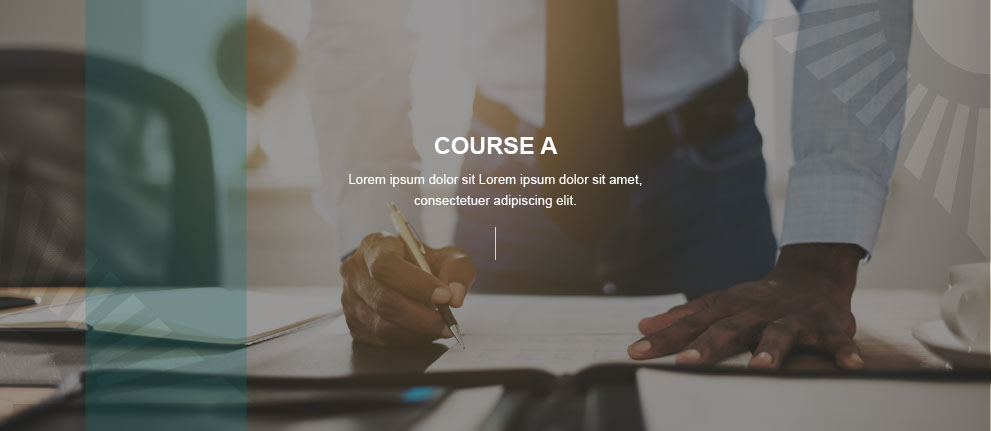
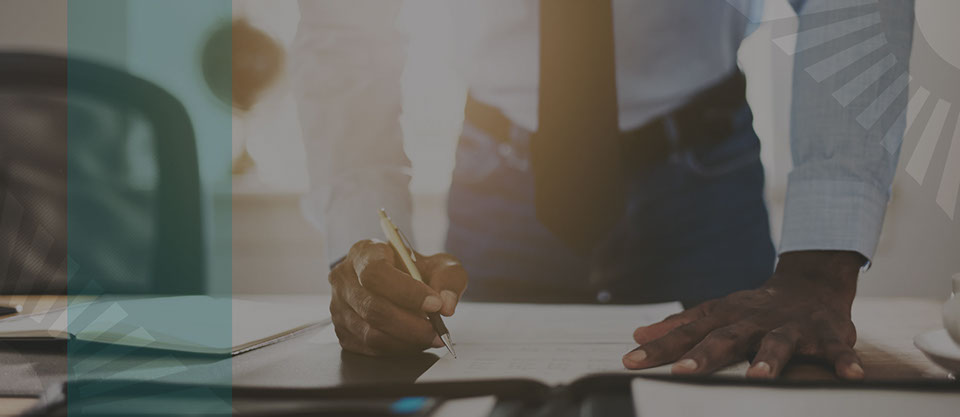
Add files via upload

diff --git a/css/index.css b/css/index.css
@@ -1,1 +1,1 @@
-.version.index{color:#0000E5;background-color:#E80596;}#muse_css_mq{background-color:#FFFFFF;}#page{z-index:1;min-height:400px;background-image:none;border-width:0px;border-color:#000000;background-color:transparent;width:100%;max-width:960px;margin-left:auto;margin-right:auto;}#slideshowu511{z-index:2;width:0.01px;height:400px;position:relative;margin-right:-10000px;}#u521{position:absolute;width:960px;height:400px;background-color:transparent;}#u521popup{z-index:3;}#u1584{z-index:4;width:960px;height:400px;border-width:0px;border-color:transparent;background-color:transparent;margin-right:-10000px;position:relative;}#u1544{z-index:6;width:960px;height:400px;border-width:0px;border-color:transparent;background-color:transparent;margin-right:-10000px;position:relative;}#u1564{z-index:8;width:960px;height:400px;border-width:0px;border-color:transparent;background-color:transparent;margin-right:-10000px;position:relative;}#u1584_img,#u1544_img,#u1564_img{margin-top:-9px;margin-bottom:-8px;}#u514{position:absolute;width:201px;height:44px;background-color:transparent;top:263px;left:379px;}#u514popup{z-index:10;}#u1596-4{z-index:11;width:177px;height:20px;border-style:solid;border-width:2px;border-color:#D6D3D1;background-color:transparent;padding:10px;color:#D6D3D1;text-align:center;line-height:20px;font-family:Helvetica, Helvetica Neue, Arial, sans-serif;font-weight:bold;margin-right:-10000px;position:relative;}#u1596-4:hover{background-color:#0C7278;padding-top:10px;padding-bottom:10px;min-height:0px;width:177px;height:20px;margin:0px -10000px 0px 0px;}#u1556-4{z-index:15;width:177px;height:20px;border-style:solid;border-width:2px;border-color:#D6D3D1;background-color:transparent;padding:10px;color:#D6D3D1;text-align:center;line-height:20px;font-family:Helvetica, Helvetica Neue, Arial, sans-serif;font-weight:bold;margin-right:-10000px;position:relative;}#u1576-4{z-index:19;width:177px;height:20px;border-style:solid;border-width:2px;border-color:#D6D3D1;background-color:transparent;padding:10px;color:#D6D3D1;text-align:center;line-height:20px;font-family:Helvetica, Helvetica Neue, Arial, sans-serif;font-weight:bold;margin-right:-10000px;position:relative;}#u1556-4:hover,#u1576-4:hover{background-color:#AF3D3E;padding-top:10px;padding-bottom:10px;min-height:0px;width:177px;height:20px;margin:0px -10000px 0px 0px;}#u1596-4:hover p,#u1556-4:hover p,#u1576-4:hover p{color:#FFFFFF;visibility:inherit;}#u536-4{position:absolute;display:block;vertical-align:top;top:163px;left:20px;}#u536-4popup{z-index:23;}#u520-4{position:absolute;display:block;vertical-align:top;top:163px;left:886px;}#u520-4popup{z-index:27;}.SSFirstButton,.SSPreviousButton,.SSNextButton,.SSLastButton,.SSSlideLink,.SSCloseButton{cursor:pointer;}.SSSlideLoading{background:url("../images/loading.gif?crc=3815509949") no-repeat center center;}#u1361{z-index:31;width:2px;height:32px;background-color:#D6D3D1;position:relative;margin-right:-10000px;margin-top:233px;left:49.9%;}.css_verticalspacer .verticalspacer{height:calc(100vh - 400px);}.html{background:#FFFFFF url("../images/trans.png?crc=38404405") repeat center center scroll;}body{position:relative;min-width:320px;}
+.version.index{color:#000019;background-color:#D28A89;}#page{z-index:1;min-height:415.94999999999993px;background-image:none;border-width:0px;border-color:#000000;background-color:transparent;padding-bottom:0px;width:100%;max-width:960px;margin-left:auto;margin-right:auto;}#page_position_content{width:100%;}#pamphletu1649{z-index:2;position:relative;width:100%;}#u1652{z-index:3;position:relative;margin-right:-10000px;margin-top:364px;width:23.34%;left:30.63%;}#u1655{position:absolute;width:60px;height:32px;border-width:0px;border-color:transparent;background-color:transparent;padding-bottom:13px;}#u1655:hover{border-width:0px;border-color:transparent;background-color:transparent;width:60px;height:32px;min-height:0px;margin:0px 0px 0px 0%;}#u1655:active{border-width:0px;border-color:transparent;background-color:transparent;width:60px;height:32px;min-height:0px;margin:0px 0px 0px 0%;}#u1656-4{z-index:10;width:40px;min-height:20px;border-color:#DEDEDE;background-color:transparent;text-align:center;line-height:20px;font-family:Helvetica, Helvetica Neue, Arial, sans-serif;position:relative;margin-right:-10000px;margin-top:12px;left:9px;}#u1655:hover #u1656-4{border-width:0px;border-color:transparent;padding-top:0px;padding-bottom:0px;min-height:20px;width:40px;margin:12px -10000px 0px 0px;}#u1655:active #u1656-4{border-width:0px;border-color:transparent;padding-top:0px;padding-bottom:0px;min-height:20px;width:40px;margin:12px -10000px 0px 0px;}#u1655:hover #u1656-4 p{visibility:hidden;}#u1655:active #u1656-4 p{visibility:hidden;}#u1655popup{width:60px;height:45px;margin-right:-10000px;}#u1653{position:absolute;width:60px;height:32px;border-width:0px;border-color:transparent;background-color:transparent;padding-bottom:13px;}#u1655.PamphletThumbSelected,#u1653:hover{border-width:0px;border-color:transparent;background-color:transparent;width:60px;height:32px;min-height:0px;margin:0px 0px 0px 0%;}#u1653:active{border-width:0px;border-color:transparent;background-color:transparent;width:60px;height:32px;min-height:0px;margin:0px 0px 0px 0%;}#u1653.PamphletThumbSelected{border-width:0px;border-color:transparent;background-color:transparent;width:60px;height:32px;min-height:0px;margin:0px 0px 0px 0%;}#u1654-4{z-index:5;width:40px;min-height:20px;border-width:0px;border-color:transparent;background-color:transparent;text-align:center;line-height:20px;font-family:Helvetica, Helvetica Neue, Arial, sans-serif;position:relative;margin-right:-10000px;margin-top:12px;left:10px;}#u1655.PamphletThumbSelected #u1656-4,#u1653:hover #u1654-4{border-width:0px;border-color:transparent;padding-top:0px;padding-bottom:0px;min-height:20px;width:40px;margin:12px -10000px 0px 0px;}#u1653:active #u1654-4{padding-top:0px;padding-bottom:0px;min-height:20px;width:40px;margin:12px -10000px 0px 0px;}#u1653.PamphletThumbSelected #u1654-4{padding-top:0px;padding-bottom:0px;min-height:20px;width:40px;margin:12px -10000px 0px 0px;}#u1655.PamphletThumbSelected #u1656-4 p,#u1656-2,#u1653:hover #u1654-4 p{visibility:hidden;}#u1653:active #u1654-4 p{visibility:hidden;}#u1653popup{width:60px;height:45px;margin-right:-10000px;margin-left:36.61%;}#u1657{position:absolute;width:60px;height:32px;border-width:0px;border-color:transparent;background-color:transparent;padding-bottom:13px;margin-left:100%;left:-120px;}#u1657:hover{border-width:0px;border-color:transparent;background-color:transparent;width:60px;height:32px;min-height:0px;left:-120px;margin:0px 0px 0px 100%;}#u1657:active{border-width:0px;border-color:transparent;background-color:transparent;width:60px;height:32px;min-height:0px;left:-120px;margin:0px 0px 0px 100%;}#u1657.PamphletThumbSelected{border-width:0px;border-color:transparent;background-color:transparent;width:60px;height:32px;min-height:0px;left:-120px;margin:0px 0px 0px 100%;}#u1658-4{z-index:15;width:40px;min-height:20px;border-color:#DEDEDE;background-color:transparent;text-align:center;line-height:20px;font-family:Helvetica, Helvetica Neue, Arial, sans-serif;position:relative;margin-right:-10000px;margin-top:12px;left:10px;}#u1657:hover #u1658-4{border-color:#999999;padding-top:0px;padding-bottom:0px;min-height:20px;width:40px;margin:12px -10000px 0px 0px;}#u1657:active #u1658-4{border-color:#999999;padding-top:0px;padding-bottom:0px;min-height:20px;width:40px;margin:12px -10000px 0px 0px;}#u1657.PamphletThumbSelected #u1658-4{border-width:0px;border-color:transparent;padding-top:0px;padding-bottom:0px;min-height:20px;width:40px;margin:12px -10000px 0px 0px;}#u1653.PamphletThumbSelected #u1654-4 p,#u1654-2,#u1658-2{visibility:hidden;}#u1657popup{width:60px;height:45px;margin-right:-10000px;margin-left:100%;}#u1659{position:absolute;width:960px;height:417px;}#u1659popup{z-index:19;width:960px;height:417px;margin-right:-10000px;}#u1664{z-index:20;width:960px;height:222.9322580645163px;border-width:0px;border-color:transparent;opacity:1;-ms-filter:"progid:DXImageTransform.Microsoft.Alpha(Opacity=100)";filter:alpha(opacity=100);padding-top:80px;padding-bottom:114.0677419354837px;position:relative;margin-right:-10000px;background:#303030 url("../images/b.jpg?crc=353140057") no-repeat left top;background-size:contain;}#u1665-8{z-index:21;width:522px;min-height:156px;background-color:transparent;line-height:39px;font-size:28px;color:#FFFFFF;letter-spacing:2px;text-transform:uppercase;text-align:center;font-family:Helvetica, Helvetica Neue, Arial, sans-serif;font-weight:bold;position:relative;margin-left:24.07%;}#u1834{z-index:29;width:189px;border-width:0px;border-color:transparent;background-color:transparent;position:relative;margin-left:40.11%;}#u1835{z-index:30;width:1px;height:24px;background-color:#FFFFFF;position:relative;margin-left:50.27%;}#buttonu1836{z-index:31;width:187px;height:30px;border-style:solid;border-width:1px;border-color:#FFFFFF;background-color:transparent;padding-bottom:12px;top:-1px;margin-bottom:-1px;position:relative;}#buttonu1836:hover{background-color:#0C7278;width:187px;height:30px;min-height:0px;margin:0px 0px -1px 0%;}#u1837-4{z-index:32;width:187px;min-height:18px;background-color:transparent;font-size:14px;letter-spacing:1px;text-transform:uppercase;text-align:center;color:#FFFFFF;font-family:Helvetica, Helvetica Neue, Arial, sans-serif;font-weight:bold;position:relative;margin-right:-10000px;margin-top:12px;}#buttonu1836:hover #u1837-4{padding-top:0px;padding-bottom:0px;min-height:18px;width:187px;margin:12px -10000px 0px 0%;}#buttonu1836:hover #u1837-4 p{color:#FFFFFF;visibility:inherit;}#u1668{z-index:36;width:960px;height:184px;border-width:0px;border-color:transparent;opacity:1;-ms-filter:"progid:DXImageTransform.Microsoft.Alpha(Opacity=100)";filter:alpha(opacity=100);padding-top:119px;padding-bottom:114px;position:relative;margin-right:-10000px;background:#303030 url("../images/c.jpg?crc=231037254") no-repeat left top;background-size:contain;}#u1671-6{z-index:37;width:522px;min-height:81px;background-color:transparent;line-height:39px;font-size:28px;color:#FFFFFF;letter-spacing:2px;text-transform:uppercase;text-align:center;font-family:Helvetica, Helvetica Neue, Arial, sans-serif;font-weight:bold;position:relative;margin-left:24.07%;}#u1822{z-index:43;width:189px;border-width:0px;border-color:transparent;background-color:transparent;padding-bottom:0px;position:relative;margin-left:40.21%;}#u1823{z-index:44;width:1px;height:24px;background-color:#FFFFFF;position:relative;margin-left:50.27%;}#buttonu1824{z-index:45;width:187px;height:30px;border-style:solid;border-width:1px;border-color:#FFFFFF;background-color:transparent;padding-bottom:12px;top:-1px;margin-bottom:-1px;position:relative;}#buttonu1824:hover{background-color:#0C7278;width:187px;height:30px;min-height:0px;margin:0px 0px -1px 0%;}#buttonu1836.ButtonSelected,#buttonu1824.ButtonSelected{background-color:transparent;width:187px;height:30px;min-height:0px;margin:0px 0px -1px 0%;}#u1825-4{z-index:46;width:187px;min-height:18px;background-color:transparent;font-size:14px;letter-spacing:1px;text-transform:uppercase;text-align:center;color:#FFFFFF;font-family:Helvetica, Helvetica Neue, Arial, sans-serif;font-weight:bold;position:relative;margin-right:-10000px;margin-top:12px;}#buttonu1836.ButtonSelected #u1837-4,#buttonu1824:hover #u1825-4{padding-top:0px;padding-bottom:0px;min-height:18px;width:187px;margin:12px -10000px 0px 0%;}#buttonu1824.ButtonSelected #u1825-4{padding-top:0px;padding-bottom:0px;min-height:18px;width:187px;margin:12px -10000px 0px 0%;}#buttonu1836.ButtonSelected #u1837-4 p,#buttonu1824:hover #u1825-4 p{color:#FFFFFF;visibility:inherit;}#u1660{z-index:50;width:960px;height:105.98225806451615px;border-width:0px;border-color:transparent;opacity:1;-ms-filter:"progid:DXImageTransform.Microsoft.Alpha(Opacity=100)";filter:alpha(opacity=100);padding-top:197px;padding-bottom:114.01774193548385px;position:relative;margin-right:-10000px;background:#303030 url("../images/a.jpg?crc=483463407") no-repeat left top;background-size:contain;}#u1663-4{z-index:51;width:522px;min-height:39px;background-color:transparent;font-size:28px;letter-spacing:2px;line-height:39px;text-align:center;color:#FFFFFF;font-family:Helvetica, Helvetica Neue, Arial, sans-serif;font-weight:bold;position:relative;margin-left:24.07%;}#u1819{z-index:55;border-width:0px;border-color:transparent;background-color:transparent;position:relative;width:19.69%;margin-left:40.11%;}#u1810{z-index:56;height:24px;background-color:#FFFFFF;position:relative;width:0.53%;margin-left:50.27%;}#buttonu1813{z-index:57;border-style:solid;border-width:1px;border-color:#FFFFFF;background-color:transparent;padding-bottom:12px;top:-1px;margin-bottom:-1px;position:relative;width:98.95%;}#buttonu1813:hover{background-color:#0C7278;min-height:0px;width:98.95%;margin:0px 0px -1px 0%;}#buttonu1813.ButtonSelected{background-color:transparent;min-height:0px;width:98.95%;margin:0px 0px -1px 0%;}#u1814-4{z-index:58;min-height:18px;background-color:transparent;font-size:14px;letter-spacing:1px;text-transform:uppercase;text-align:center;color:#FFFFFF;font-family:Helvetica, Helvetica Neue, Arial, sans-serif;font-weight:bold;position:relative;margin-right:-10000px;margin-top:12px;width:100%;}#buttonu1813:hover #u1814-4{padding-top:0px;padding-bottom:0px;min-height:18px;width:100%;margin:12px -10000px 0px 0%;}#buttonu1813.ButtonSelected #u1814-4{padding-top:0px;padding-bottom:0px;min-height:18px;width:100%;margin:12px -10000px 0px 0%;}#buttonu1824.ButtonSelected #u1825-4 p,#buttonu1813:hover #u1814-4 p{color:#FFFFFF;visibility:inherit;}#u1674{position:absolute;width:41px;height:55px;border-width:0px;border-color:transparent;background-color:transparent;padding-bottom:1px;}#u1675-4{z-index:63;width:41px;min-height:55px;border-width:0px;border-color:transparent;background-color:transparent;line-height:55px;font-size:39px;text-align:center;color:#D6D3D1;font-family:Helvetica, Helvetica Neue, Arial, sans-serif;position:relative;margin-right:-10000px;}#u1674popup{margin-top:180px;width:41px;height:56px;margin-right:-10000px;margin-left:2.09%;}#u1672{position:absolute;width:42px;height:55px;border-width:0px;border-color:transparent;background-color:transparent;}#u1673-4{z-index:68;width:41px;min-height:55px;border-width:0px;border-color:transparent;background-color:transparent;line-height:55px;font-size:39px;text-align:center;color:#D6D3D1;font-family:Helvetica, Helvetica Neue, Arial, sans-serif;position:relative;margin-right:-10000px;}#u1675-4:hover,#u1673-4:hover{padding-top:0px;padding-bottom:0px;min-height:55px;width:41px;margin:0px -10000px 0px 0%;}#buttonu1813.ButtonSelected #u1814-4 p,#u1675-4:hover p,#u1673-4:hover p{color:#FFFFFF;visibility:inherit;}#u1672popup{margin-top:180px;width:42px;height:55px;margin-right:-10000px;margin-left:93.65%;}.PamphletWidget .ThumbGroup .Thumb,.PamphletNextButton,.PamphletPrevButton,.PamphletCloseButton{cursor:pointer;}.css_verticalspacer .verticalspacer{height:calc(100vh - 416px);}#muse_css_mq,.html{background-color:#FFFFFF;}body{position:relative;min-width:320px;}

diff --git a/index.html b/index.html
@@ -11,51 +11,93 @@
 document.documentElement.className = document.documentElement.className.replace(/\bnojs\b/g, 'js');
 
 // Check that all required assets are uploaded and up-to-date
-if(typeof Muse == "undefined") window.Muse = {}; window.Muse.assets = {"required":["museutils.js", "museconfig.js", "webpro.js", "musewpslideshow.js", "jquery.museoverlay.js", "touchswipe.js", "jquery.watch.js", "require.js", "index.css"], "outOfDate":[]};
+if(typeof Muse == "undefined") window.Muse = {}; window.Muse.assets = {"required":["museutils.js", "museconfig.js", "jquery.watch.js", "jquery.musepolyfill.bgsize.js", "webpro.js", "musewpslideshow.js", "jquery.museoverlay.js", "touchswipe.js", "require.js", "index.css"], "outOfDate":[]};
 </script>
   
   <title>Home</title>
   <!-- CSS -->
   <link rel="stylesheet" type="text/css" href="css/site_global.css?crc=444006867"/>
-  <link rel="stylesheet" type="text/css" href="css/index.css?crc=3857188246" id="pagesheet"/>
+  <link rel="stylesheet" type="text/css" href="css/index.css?crc=433228425" id="pagesheet"/>
    </head>
  <body>
 
-  <div class="clearfix borderbox" id="page"><!-- group -->
-   <div class="SlideShowWidget clearfix grpelem" id="slideshowu511" data-sizePolicy="fixed" data-pintopage="page_fluidx"><!-- none box -->
-    <div class="popup_anchor" id="u521popup">
-     <div class="SlideShowContentPanel clearfix" id="u521" data-sizePolicy="fixed" data-pintopage="page_fixedLeft"><!-- stack box -->
-      <div class="SSSlide clip_frame clearfix grpelem" id="u1584" data-sizePolicy="fixed" data-pintopage="page_fixedLeft"><!-- image -->
-       <img class="ImageInclude position_content" id="u1584_img" data-src="images/artboard%2016%20copy%2013.jpg?crc=4092042751" src="images/blank.gif?crc=4208392903" alt="" data-width="960" data-height="417"/>
+  <div class="clearfix borderbox" id="page"><!-- column -->
+   <div class="position_content" id="page_position_content">
+    <div class="PamphletWidget clearfix allow_click_through colelem" id="pamphletu1649" data-visibility="changed" style="visibility:hidden"><!-- none box -->
+     <div class="ThumbGroup clearfix grpelem" data-col-pos="0" id="u1652"><!-- none box -->
+      <div class="popup_anchor allow_click_through grpelem" data-col-pos="1" id="u1655popup">
+       <div class="Thumb popup_element clearfix" data-col-pos="1" id="u1655" data-sizePolicy="fixed" data-pintopage="page_fluidx"><!-- group -->
+        <div class="clearfix grpelem" id="u1656-4" data-sizePolicy="fixed" data-pintopage="page_fixedLeft"><!-- content -->
+         <p id="u1656-2">1</p>
+        </div>
+       </div>
       </div>
-      <div class="SSSlide invi clip_frame clearfix grpelem" id="u1544" data-sizePolicy="fixed" data-pintopage="page_fixedLeft"><!-- image -->
-       <img class="ImageInclude position_content" id="u1544_img" data-src="images/artboard%2016%20copy%209.jpg?crc=3877844534" src="images/blank.gif?crc=4208392903" alt="" data-width="960" data-height="417"/>
+      <div class="popup_anchor allow_click_through grpelem" data-col-pos="0" id="u1653popup">
+       <div class="Thumb popup_element clearfix" data-col-pos="0" id="u1653" data-sizePolicy="fixed" data-pintopage="page_fluidx"><!-- group -->
+        <div class="clearfix grpelem" id="u1654-4" data-sizePolicy="fixed" data-pintopage="page_fixedLeft"><!-- content -->
+         <p id="u1654-2">2</p>
+        </div>
+       </div>
       </div>
-      <div class="SSSlide invi clip_frame clearfix grpelem" id="u1564" data-sizePolicy="fixed" data-pintopage="page_fixedLeft"><!-- image -->
-       <img class="ImageInclude position_content" id="u1564_img" data-src="images/artboard%2016%20copy%2010.jpg?crc=3891181345" src="images/blank.gif?crc=4208392903" alt="" data-width="960" data-height="417"/>
+      <div class="popup_anchor allow_click_through grpelem" data-col-pos="2" id="u1657popup">
+       <div class="Thumb popup_element clearfix" data-col-pos="2" id="u1657" data-sizePolicy="fixed" data-pintopage="page_fixedRight" data-leftAdjustmentDoneBy="u1657popup"><!-- group -->
+        <div class="clearfix grpelem" id="u1658-4" data-sizePolicy="fixed" data-pintopage="page_fixedLeft"><!-- content -->
+         <p id="u1658-2">3</p>
+        </div>
+       </div>
+      </div>
+     </div>
+     <div class="popup_anchor allow_click_through grpelem" data-col-pos="1" id="u1659popup">
+      <div class="ContainerGroup clearfix" data-col-pos="1" id="u1659" data-sizePolicy="fixed" data-pintopage="page_fluidx"><!-- none box -->
+       <div class="Container museBGSize clearfix grpelem" data-col-pos="0" id="u1664" data-sizePolicy="fixed" data-pintopage="page_fluidx"><!-- column -->
+        <div class="clearfix colelem" id="u1665-8" data-sizePolicy="fixed" data-pintopage="page_fluidx"><!-- content -->
+         <p>The A to Z of the Main Agreement:</p>
+         <p>Explaining the content</p>
+         <p>and the application</p>
+        </div>
+        <div class="clearfix colelem" id="u1834"><!-- column -->
+         <div class="colelem" id="u1835" data-sizePolicy="fixed" data-pintopage="page_fluidx"><!-- simple frame --></div>
+         <a class="nonblock nontext Button clearfix colelem" id="buttonu1836" href="https://seifsa.eu.crossknowledge.com/sso/training/27/Singleton/yes/" data-sizePolicy="fixed" data-pintopage="page_fluidx"><!-- container box --><div class="clearfix grpelem" id="u1837-4" data-sizePolicy="fixed" data-pintopage="page_fluidx"><!-- content --><p>access course</p></div></a>
+        </div>
+       </div>
+       <div class="Container invi museBGSize clearfix grpelem" data-col-pos="1" id="u1668" data-sizePolicy="fixed" data-pintopage="page_fluidx"><!-- column -->
+        <div class="clearfix colelem" id="u1671-6" data-sizePolicy="fixed" data-pintopage="page_fluidx"><!-- content -->
+         <p>Theory and Calculation</p>
+         <p>of Contract Price Adjustment</p>
+        </div>
+        <div class="clearfix colelem" id="u1822"><!-- column -->
+         <div class="colelem" id="u1823" data-sizePolicy="fixed" data-pintopage="page_fluidx"><!-- simple frame --></div>
+         <a class="nonblock nontext Button clearfix colelem" id="buttonu1824" href="https://seifsa.eu.crossknowledge.com/sso/training/7/Singleton/yes/" data-sizePolicy="fixed" data-pintopage="page_fluidx"><!-- container box --><div class="clearfix grpelem" id="u1825-4" data-sizePolicy="fixed" data-pintopage="page_fluidx"><!-- content --><p>access course</p></div></a>
+        </div>
+       </div>
+       <div class="Container invi museBGSize clearfix grpelem" data-col-pos="2" id="u1660" data-sizePolicy="fixed" data-pintopage="page_fluidx"><!-- column -->
+        <div class="clearfix colelem" id="u1663-4" data-sizePolicy="fixed" data-pintopage="page_fluidx"><!-- content -->
+         <p>TRAINING CATALOGUE</p>
+        </div>
+        <div class="clearfix colelem" id="u1819"><!-- column -->
+         <div class="colelem" id="u1810"><!-- simple frame --></div>
+         <a class="nonblock nontext Button clearfix colelem" id="buttonu1813" href="https://seifsa.eu.crossknowledge.com/site/search/home" data-visibility="changed" style="visibility:hidden"><!-- container box --><div class="clearfix grpelem" id="u1814-4"><!-- content --><p>access catalogue</p></div></a>
+        </div>
+       </div>
+      </div>
+     </div>
+     <div class="popup_anchor allow_click_through grpelem" data-col-pos="2" id="u1674popup">
+      <div class="PamphletPrevButton PamphletLightboxPart popup_element clearfix" data-col-pos="2" id="u1674" data-sizePolicy="fixed" data-pintopage="page_fluidx"><!-- group -->
+       <div class="clearfix grpelem" id="u1675-4" data-sizePolicy="fixed" data-pintopage="page_fluidx"><!-- content -->
+        <p>&lt;</p>
+       </div>
+      </div>
+     </div>
+     <div class="popup_anchor allow_click_through grpelem" data-col-pos="3" id="u1672popup">
+      <div class="PamphletNextButton PamphletLightboxPart popup_element clearfix" data-col-pos="3" id="u1672" data-sizePolicy="fixed" data-pintopage="page_fluidx"><!-- group -->
+       <div class="clearfix grpelem" id="u1673-4" data-sizePolicy="fixed" data-pintopage="page_fluidx"><!-- content -->
+        <p>&gt;</p>
+       </div>
       </div>
      </div>
     </div>
-    <div class="popup_anchor" id="u514popup">
-     <div class="SlideShowCaptionPanel clearfix" id="u514" data-sizePolicy="fixed" data-pintopage="page_fixedLeft"><!-- stack box -->
-      <a class="nonblock nontext SSSlideCaption clearfix grpelem" id="u1596-4" href="https://seifsa.eu.crossknowledge.com/site/search/home" target="_blank" data-sizePolicy="fixed" data-pintopage="page_fixedLeft"><!-- content --><p>ACCESS CATALOGUE</p></a>
-      <div class="SSSlideCaption invi clearfix grpelem" id="u1556-4" data-sizePolicy="fixed" data-pintopage="page_fixedLeft"><!-- content -->
-       <p>COMING SOON</p>
-      </div>
-      <div class="SSSlideCaption invi clearfix grpelem" id="u1576-4" data-sizePolicy="fixed" data-pintopage="page_fixedLeft"><!-- content -->
-       <p>COMING SOON</p>
-      </div>
-     </div>
-    </div>
-    <div class="popup_anchor" id="u536-4popup" data-sizePolicy="fixed" data-pintopage="page_fixedLeft">
-     <img class="SSPreviousButton" id="u536-4" alt="&lt;" width="54" height="76" src="images/u536-4.png?crc=338338501" data-sizePolicy="fixed" data-pintopage="page_fixedLeft"/><!-- rasterized frame -->
-    </div>
-    <div class="popup_anchor" id="u520-4popup" data-sizePolicy="fixed" data-pintopage="page_fixedLeft">
-     <img class="SSNextButton" id="u520-4" alt="&gt;" width="54" height="76" src="images/u520-4.png?crc=374357298" data-sizePolicy="fixed" data-pintopage="page_fixedLeft"/><!-- rasterized frame -->
-    </div>
+    <div class="verticalspacer" data-offset-top="417" data-content-above-spacer="416" data-content-below-spacer="0" data-sizePolicy="fixed" data-pintopage="page_fixedLeft"></div>
    </div>
-   <div class="grpelem" id="u1361" data-sizePolicy="fixed" data-pintopage="page_fluidx"><!-- simple frame --></div>
-   <div class="verticalspacer" data-offset-top="400" data-content-above-spacer="400" data-content-below-spacer="0" data-sizePolicy="fixed" data-pintopage="page_fixedLeft"></div>
   </div>
   <!-- Other scripts -->
   <script type="text/javascript">
@@ -68,12 +110,13 @@ var suppressMissingFileError = false
 k[1]:null,k=k&&k[2]?k[2]:null;switch(k.toLowerCase()){case "css":i=i.replace(/\W/gi,"_").replace(/^([^a-z])/gi,"_$1");g.className+=" "+i;i=a(d(g,"color"));k=a(d(g,"backgroundColor"));i!=0||k!=0?(Muse.assets.required.splice(j,1),"undefined"!=typeof b[l]&&(i!=b[l]>>>24||k!=(b[l]&16777215))&&Muse.assets.outOfDate.push(l)):j++;g.className="version";break;case "js":j++;break;default:throw Error("Unsupported file type: "+k);}}c?c().jquery!="1.8.3"&&Muse.assets.outOfDate.push("jquery-1.8.3.min.js"):Muse.assets.required.push("jquery-1.8.3.min.js");
 g.parentNode.removeChild(g);if(Muse.assets.outOfDate.length||Muse.assets.required.length)g="Some files on the server may be missing or incorrect. Clear browser cache and try again. If the problem persists please contact website author.",f&&Muse.assets.outOfDate.length&&(g+="\nOut of date: "+Muse.assets.outOfDate.join(",")),f&&Muse.assets.required.length&&(g+="\nMissing: "+Muse.assets.required.join(",")),suppressMissingFileError?(g+="\nUse SuppressMissingFileError key in AppPrefs.xml to show missing file error pop up.",console.log(g)):alert(g)};location&&location.search&&location.search.match&&location.search.match(/muse_debug/gi)?
 setTimeout(function(){f(!0)},5E3):f()}};
-var muse_init=function(){require.config({baseUrl:""});require(["jquery","museutils","whatinput","webpro","musewpslideshow","jquery.museoverlay","touchswipe","jquery.watch"],function(c){var $ = c;$(document).ready(function(){try{
+var muse_init=function(){require.config({baseUrl:""});require(["jquery","museutils","whatinput","jquery.watch","jquery.musepolyfill.bgsize","webpro","musewpslideshow","jquery.museoverlay","touchswipe"],function(c){var $ = c;$(document).ready(function(){try{
 window.Muse.assets.check($);/* body */
 Muse.Utils.transformMarkupToFixBrowserProblemsPreInit();/* body */
 Muse.Utils.prepHyperlinks(true);/* body */
+Muse.Utils.resizeHeight('.popup_anchor.allow_click_through');/* resize height */
 Muse.Utils.makeButtonsVisibleAfterSettingMinWidth();/* body */
-Muse.Utils.initWidget('#slideshowu511', ['#bp_infinity'], function(elem) { var widget = new WebPro.Widget.ContentSlideShow(elem, {autoPlay:false,displayInterval:10000,slideLinkStopsSlideShow:false,transitionStyle:'fading',lightboxEnabled_runtime:false,shuffle:false,transitionDuration:1000,enableSwipe:true,elastic:'off',resumeAutoplay:true,resumeAutoplayInterval:3000,playOnce:false,autoActivate_runtime:false,isResponsive:false}); $(elem).data('widget', widget); return widget; });/* #slideshowu511 */
+Muse.Utils.initWidget('#pamphletu1649', ['#bp_infinity'], function(elem) { return new WebPro.Widget.ContentSlideShow(elem, {contentLayout_runtime:'loose',event:'click',deactivationEvent:'none',autoPlay:false,displayInterval:3000,transitionStyle:'fading',transitionDuration:500,hideAllContentsFirst:false,triggersOnTop:false,shuffle:false,enableSwipe:true,resumeAutoplay:true,resumeAutoplayInterval:3000,playOnce:false,autoActivate_runtime:false,isResponsive:true}); });/* #pamphletu1649 */
 Muse.Utils.fullPage('#page');/* 100% height page */
 Muse.Utils.showWidgetsWhenReady();/* body */
 Muse.Utils.transformMarkupToFixBrowserProblems();/* body */

diff --git a/scripts/jquery.musepolyfill.bgsize.js b/scripts/jquery.musepolyfill.bgsize.js
@@ -1,0 +1,13 @@
+/*
+ Copyright 2011-2016 Adobe Systems Incorporated. All Rights Reserved.
+*/
+(function(c){"function"===typeof define&&define.amd&&define.amd.jQuery?define(["jquery","museutils"],c):c(jQuery)})(function(c){function b(a){var b=a.css("background-image");a.css("background-image","");var c=a.css("background-image");b!=c&&a.css("background-image",b);return c.replace(/^\s*url\(\"?/,"").replace(/['"]?\)$/,"")}if(!Muse.Browser.Features.checkCSSFeature("background-size")){var d=function(a){var d=c(a),g=b(d),j=document.createElement("img"),l=document.createElement("div"),k=this,i=!1,
+m=!1,n=!0,q={};c(l).css({overflow:"hidden",position:"absolute",top:"0px",left:"0px",width:a.clientWidth+"px",height:a.clientHeight+"px",marginBottom:"-"+a.clientHeight+"px",marginRight:"-"+a.clientWidth+"px",zIndex:"-1"}).addClass("museBgSizePolyfill");j.src=g;j.alt="";j.style.position="absolute";l.appendChild(j);a.children.length>0?a.insertBefore(l,a.children[0]):a.appendChild(l);if(a===document.body)d=c("html"),a=d.get(0),g=b(d),j.src=g,d.css("background-attachment")=="fixed"?(l.style.position=
+"fixed",n=!1):l.style.position="absolute";else if(d.is("#page"))d.css("marginLeft").toLowerCase()=="auto"&&(m=!0),l.style.top=d.offset().top+parseInt(d.css("borderTopWidth"))+"px",l.style.bottom=parseInt(d.parent().css("paddingBottom"))+parseInt(d.css("borderBottomWidth"))+"px",l.style.left=d.offset().left+parseInt(d.css("borderLeftWidth"))+"px",l.style.right=d.offset().left+parseInt(d.css("borderRightWidth"))+"px",l.style.zIndex=0;else if(d.css("position")=="static")a.style.position="relative";this.reloadImage=
+function(){var c=b(d),g=d.css("background-color");if(c!=j.src)j.src=c;a.style.backgroundImage="none";a.style.backgroundColor="transparent";l.style.backgroundColor=g;c=(d.css("background-position-x")+" "+d.css("background-position-y")).replace(/^\s+/,"").replace(/\s+$/,"");"0px 0px"==c&&(c="left top");c=c.split(/\s+/);c.length==1&&c[0].indexOf("center")>=0&&c.push("center");if(d.data("hasBackgroundPositionScrollEffect")!=!0)for(var g=0,i=c.length;g<i;g++)switch(c[g]){case "center":case "50%":g==0?
+(j.style.right="",j.style.left="50%",j.style.marginLeft="-"+Math.ceil(j.offsetWidth/2)+"px"):(j.style.bottom="",j.style.top="50%",j.style.marginTop="-"+Math.ceil(j.offsetHeight/2)+"px");break;case "left":j.style.right="";j.style.left="0px";j.style.marginLeft="0px";break;case "right":j.style.left="";j.style.right="0px";j.style.marginLeft="0px";break;case "top":j.style.bottom="";j.style.top="0px";j.style.marginTop="0px";break;case "bottom":j.style.top="";j.style.bottom="0px";j.style.marginTop="0px";
+break;default:g==0?(j.style.left=c[g],j.style.marginLeft="-"+Math.ceil(j.offsetWidth/2)+"px"):(j.style.top=c[g],j.style.marginTop="-"+Math.ceil(j.offsetHeight/2)+"px")}};this.resizeImage=function(b){var c=a.getBoundingClientRect(),g=a.scrollWidth-(Muse.Browser.Bugs.ScrollWidthHeightIncludesBorder?c.right-c.left-d.innerWidth():0),c=a.scrollHeight-(Muse.Browser.Bugs.ScrollWidthHeightIncludesBorder?c.bottom-c.top-d.innerHeight():0),g=!n?a.clientWidth:Math.max(g,a.clientWidth),c=!n?a.clientHeight:Math.max(c,
+a.clientHeight);!q[j.src]&&j.clientWidth&&(q[j.src]={width:j.clientWidth,height:j.clientHeight});var i=g/(q[j.src]?q[j.src].width:1),k=c/(q[j.src]?q[j.src].height:1);l.style.height=c+"px";l.style.marginBottom="-"+c+"px";l.style.width=g+"px";l.style.marginRight="-"+g+"px";i<k==b?(j.style.height=c+1+"px",j.style.width="auto"):(j.style.width=g+1+"px",j.style.height="auto")};this.update=function(){if(i){a.style.backgroundImage="";d.css("background-color","");var b=d.css("background-image").toLowerCase(),
+c=(a.currentStyle||window.getComputedStyle(a,null))["background-size"];c&&c.toLowerCase();if(b!="none"&&(c=="cover"||c=="contain")){if(k.reloadImage(),l.style.display="block",l.style.width="0px",l.style.height="0px",k.resizeImage(c=="cover"),m)l.style.left=d.offset().left+parseInt(d.css("borderLeftWidth"))+"px",l.style.right=d.offset().left+parseInt(d.css("borderRightWidth"))+"px"}else l.style.display="none"}};if(j.complete||g=="none")i=!0;else c(j).one("load",function(){i=!0;k.update()});this.update()},
+a=function(){this.updateList=[]};a.prototype.initialize=function(a){var b=this;a.each(function(){var a=new d(this);this!==document.body?b.updateList.push(a):(c(window).resize(function(){setTimeout(function(){a.update()},10)}),c(window).load(function(){setTimeout(function(){a.update()},10)}))});var g=b.updateList.length;g>0&&setInterval(function(){for(var a=0;a<g;a++)b.updateList[a].update()},Math.max(120,16*g))};c(window).data("musePolyfill.bgSize",new a)}});
+;(function(){if(!("undefined"==typeof Muse||"undefined"==typeof Muse.assets)){var c=function(a,b){for(var c=0,d=a.length;c<d;c++)if(a[c]==b)return c;return-1}(Muse.assets.required,"jquery.musepolyfill.bgsize.js");if(-1!=c){Muse.assets.required.splice(c,1);for(var c=document.getElementsByTagName("meta"),b=0,d=c.length;b<d;b++){var a=c[b];if("generator"==a.getAttribute("name")){"2018.1.0.386"!=a.getAttribute("content")&&Muse.assets.outOfDate.push("jquery.musepolyfill.bgsize.js");break}}}}})();
